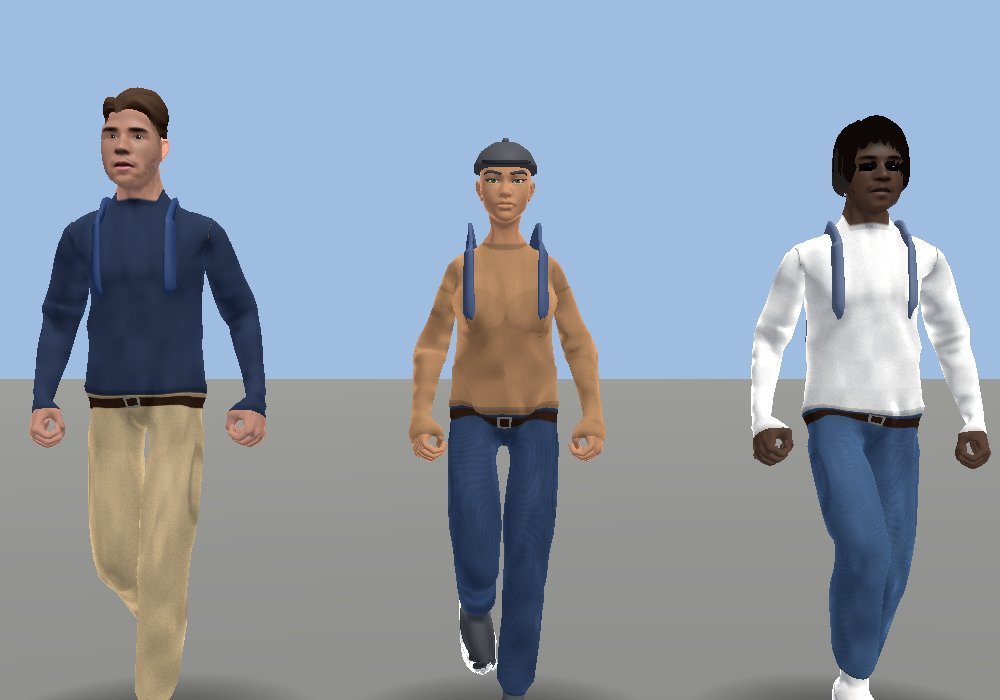
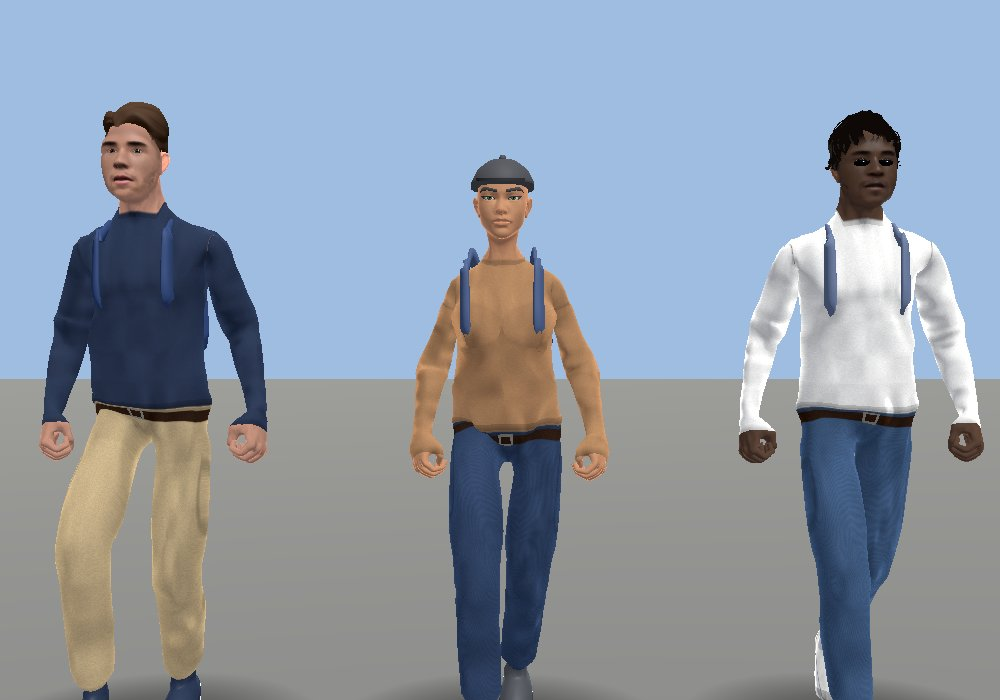
Pasto: más denso (paseos, árboles, orillas, huecos entre casas) y verde; correas pegadas al trapecio
Claude-Session: https://claude.ai/code/session_015HWWmo9PWZavoEcwL8dfWu

diff --git a/docs/PLAN_DEL_LUNES.md b/docs/PLAN_DEL_LUNES.md
@@ -2190,4 +2190,4 @@ Exportar e importar la partida (fila 30 de la propuesta, §10 «Guardado en la n
 
 - (27-10) Paradero Red rehecho según las fotos del dueño (`visor/paradero_red.gd`, tabla `datos/paraderos_red.json`); la sesión líder conecta `RecorridosRed` al cartel al unir. Correas de mochila planas pegadas al torso (falta captura de frente). Sillón de oficina en despacho DT/presidente (`visor/sillon_oficina.gd`; faltan capturas sin avatar). Pelo Drive a ~4500 tris: falta revisar los 11 peinados uno a uno (hoja antes/después) antes de usarlos en futbolistas. Pasto: pendiente.
 - (27-10) Revisión del pelo Drive, 11 peinados a 1,5 m (`docs/04_auditorias/capturas_personajes/pelo_drive_revision_11.jpg`, filas: 73,74,77,79,80,68,28,60,117,33,36; izquierda = Quaternius, derecha = Drive): solo quedan el 80 (rizado) y el 68 (flequillo); los otros 9 se descartaron (casco, ojos tapados, huecos). No hay pelo Drive femenino ni en futbolistas. Para más variedad: elegir otros del OBJ con la misma vara (de cerca, MEJOR que Quaternius).
-- (27-10) Pasto del Drive (`visor/pasto_ciudad.gd`): matas `mata_1/2.glb` con MultiMesh por celdas de 24 m, ocultas a 42 m, sin sombra; en parques (borde y manchones, fuera de cancha, lago y paseos) y orillas del río. Captura `capturas_ciudad_c2/pasto_antes_despues.jpg` (arriba antes, abajo después). PASTO_DRIVE=0 lo apaga. Falta: solares vacíos y bordes de calle (no hay tipo «solar vacío» en la ciudad todavía), mirar FPS en hardware real (cada mata ~7-8 mil triángulos), y el tono (se ve algo amarillento).
+- (27-10) Pasto del Drive (`visor/pasto_ciudad.gd`): matas `mata_1/2.glb` con MultiMesh por celdas de 24 m, ocultas a 42 m, sin sombra; en parques (borde y manchones, fuera de cancha, lago y paseos) y orillas del río. Captura `capturas_ciudad_c2/pasto_antes_despues.jpg` (arriba antes, abajo después). PASTO_DRIVE=0 lo apaga. Densidad subida (bordes de paseos, pie de árboles, orillas cada 1,6 m, huecos entre casas) y tono llevado al verde del parque. Falta: mirar FPS en hardware real (cada mata ~7-8 mil triángulos)
